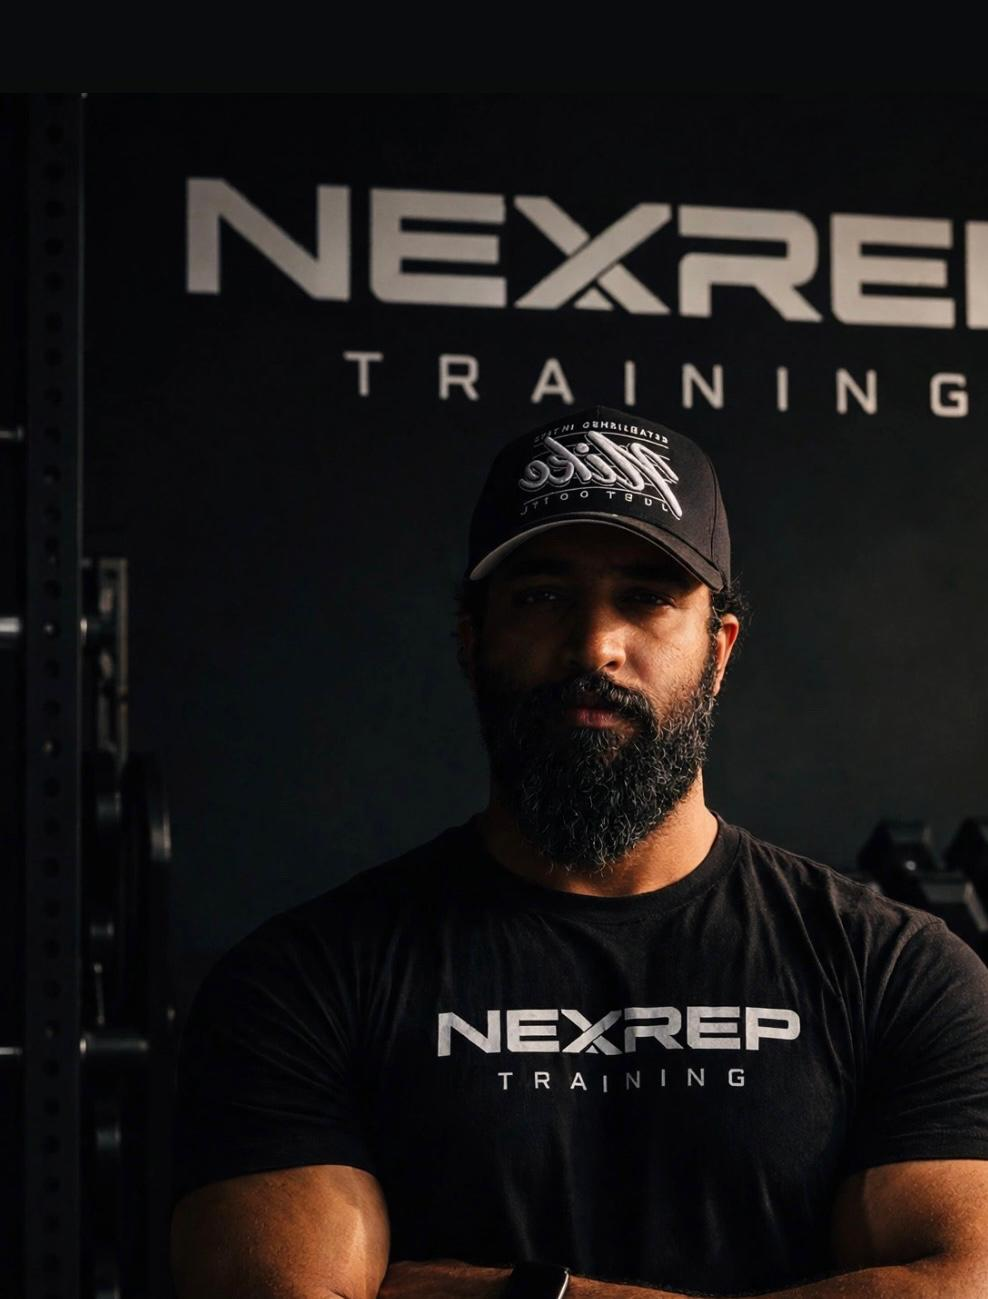
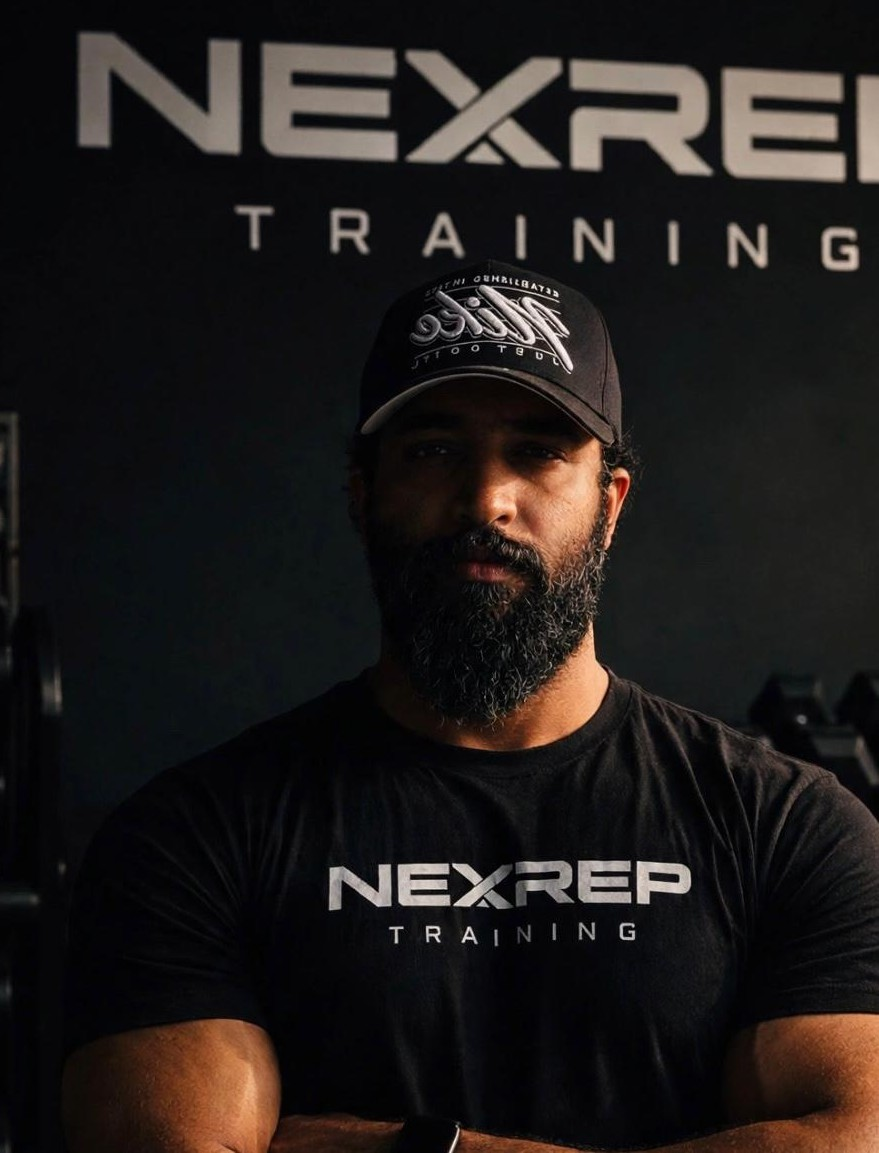
coach card update & footer

diff --git a/src/data/stories.js b/src/data/stories.js
@@ -1,18 +1,18 @@
 export const stories = [
   {
-    name: "Leo hering",
+    name: "Leo Hering",
     location: "Melbourne, Australia",
     dis:"A Complete Lifestyle Transformation",
     quote:"“Joining NEXREP Training has been one of the best decisions I've made for myself. The coaching goes far beyond just lifting weights. I've developed better habits, improved my discipline, and completely changed the way I approach fitness and everyday life. The constant guidance and personal attention have made the entire journey much easier. I'm not just building a better physique; I'm becoming a better version of myself.”",
   },
   {
-    name: "Lakshmi shajan",
+    name: "Lakshmi Shajan",
     location: "Melbourne, Australia",
     dis:"More Than Just Physical Results",
     quote: "What I appreciate most about NEXREP Training is the personal approach. Every session has a purpose, and every step is focused on helping me improve. I've gained strength, confidence, and a much healthier mindset. The biggest transformation has been learning how to stay consistent, even on difficult days. This is more than a gym experience; it's a lifestyle change.",
   },
   {
-    name: "Ellie edwards",
+    name: "Ellie Edwards",
     location: "Melbourne, Australia",
     dis:"The Best Investment in Myself",
     quote: "I used to struggle with consistency and never really knew whether I was training correctly. Having a coach who understands my goals and guides me personally has made a huge difference. My training, nutrition habits, and overall confidence have improved so much. I finally feel like I have direction, structure, and a clear plan to achieve my goals.",
@@ -23,7 +23,7 @@ export const stories = [
     quote: "The difference in my physique and strength has been incredible. The training is structured around my goals, and I understand the purpose behind every exercise. Instead of guessing what works, I now have a clear plan and proper coaching. The attention to technique, progressive overload, and consistency has completely changed the way I train.",
   },
   {
-    name: "Vasudeva gowda",
+    name: "Vasudeva Gowda",
     location: "Melbourne, Australia",
     dis:"Finally Seeing Real Progress",
     quote: "'ve trained in gyms before, but having proper one-on-one guidance has taken my training to another level. My strength is improving, my physique is developing, and I'm much more confident in the gym. The coach pays attention to the small details that make a real difference. NEXREP Training has helped me train smarter, not just harder.",

diff --git a/src/data/coaches.js b/src/data/coaches.js
@@ -1,5 +1,5 @@
-import coach1 from '../assets/images/coach1.jpeg'
-import coach2 from '../assets/images/coach2.jpeg'
+import coach1crop from '../assets/images/coach1crop.jpeg'
+import coach2crop from '../assets/images/coach2crop.jpeg'
 
 
 export const coaches = [
@@ -7,12 +7,12 @@ export const coaches = [
     name: "Big V.",
     role: "General Health & Fitness | Comp Prep",
     bio: `IFBB National champion Specializing in bodybuilding, stage preparation, and advanced physique development.`,
-    photo:coach2,
+    photo:coach2crop,
   },
   {
     name: " D Magician ",
     role: "Cert IV in Fitness | General Health & Fitness | Lifestyle Transformation Specialist",
     bio: "Transforming more than just physiques — building stronger bodies, healthier habits, and better lifestyles. Real coaching, lasting changes, and a new level of confidence.",
-    photo:coach1,
+    photo:coach1crop,
   },
 ];

diff --git a/src/components/Footer.jsx b/src/components/Footer.jsx
@@ -1,4 +1,6 @@
-import { BRAND,BRAND_FULL } from "../config";
+import { BRAND,BRAND_FULL,INSTAGRAM } from "../config";
+import { SiInstagram } from "react-icons/si";
+import Link from 'react-dom'
 
 export default function Footer() {
   return (
@@ -10,6 +12,19 @@ export default function Footer() {
        <p className="opacity-60">
   © {new Date().getFullYear()} {BRAND_FULL}. All rights reserved.
 </p>
+
+    <div>
+         <a
+          href={INSTAGRAM}
+          target="_blank"
+          rel="noreferrer"
+          aria-label="NEXREP TRAINING on Instagram"
+          className="flex h-10 w-10 items-center justify-center rounded-full border border-white/20 text-lg transition-colors duration-300 hover:border-accent hover:bg-accent hover:text-ink"
+        >
+          <SiInstagram />
+        </a>
+    </div>
+
       </div>
     </footer>
   );

diff --git a/src/config.js b/src/config.js
@@ -2,3 +2,4 @@ export const BRAND = "NEXREP";
 export const BRAND_FULL = "NEXREP TRAINING";
 export const PHONE = "61489143266";
 export const EMAIL = "nexreptraining@gmail.com";
+export const INSTAGRAM = "https://www.instagram.com/nexrep_training?cplk=enBmem9hMjFkbmRn&utm_source=qr";
